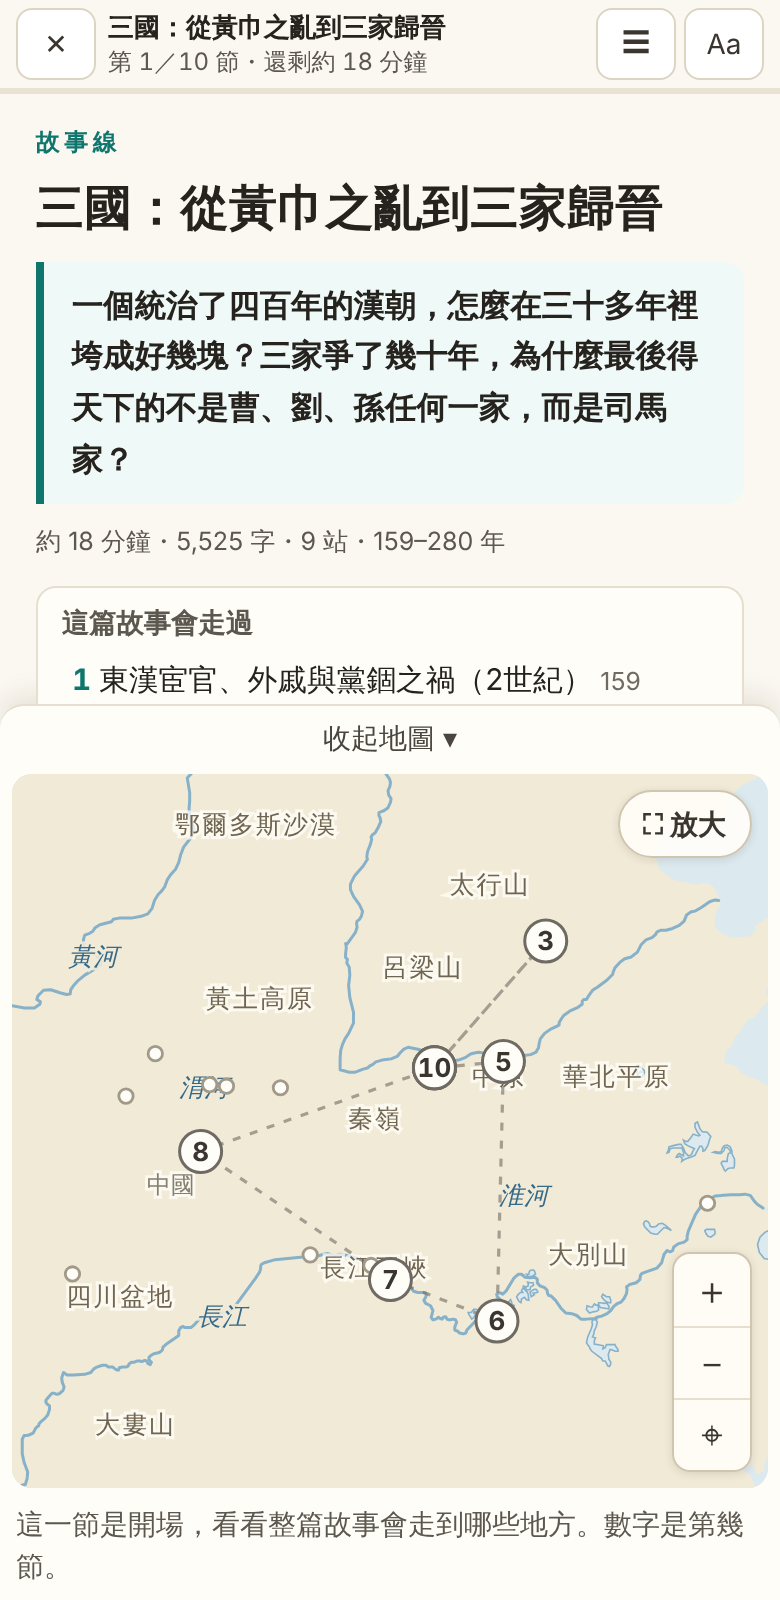
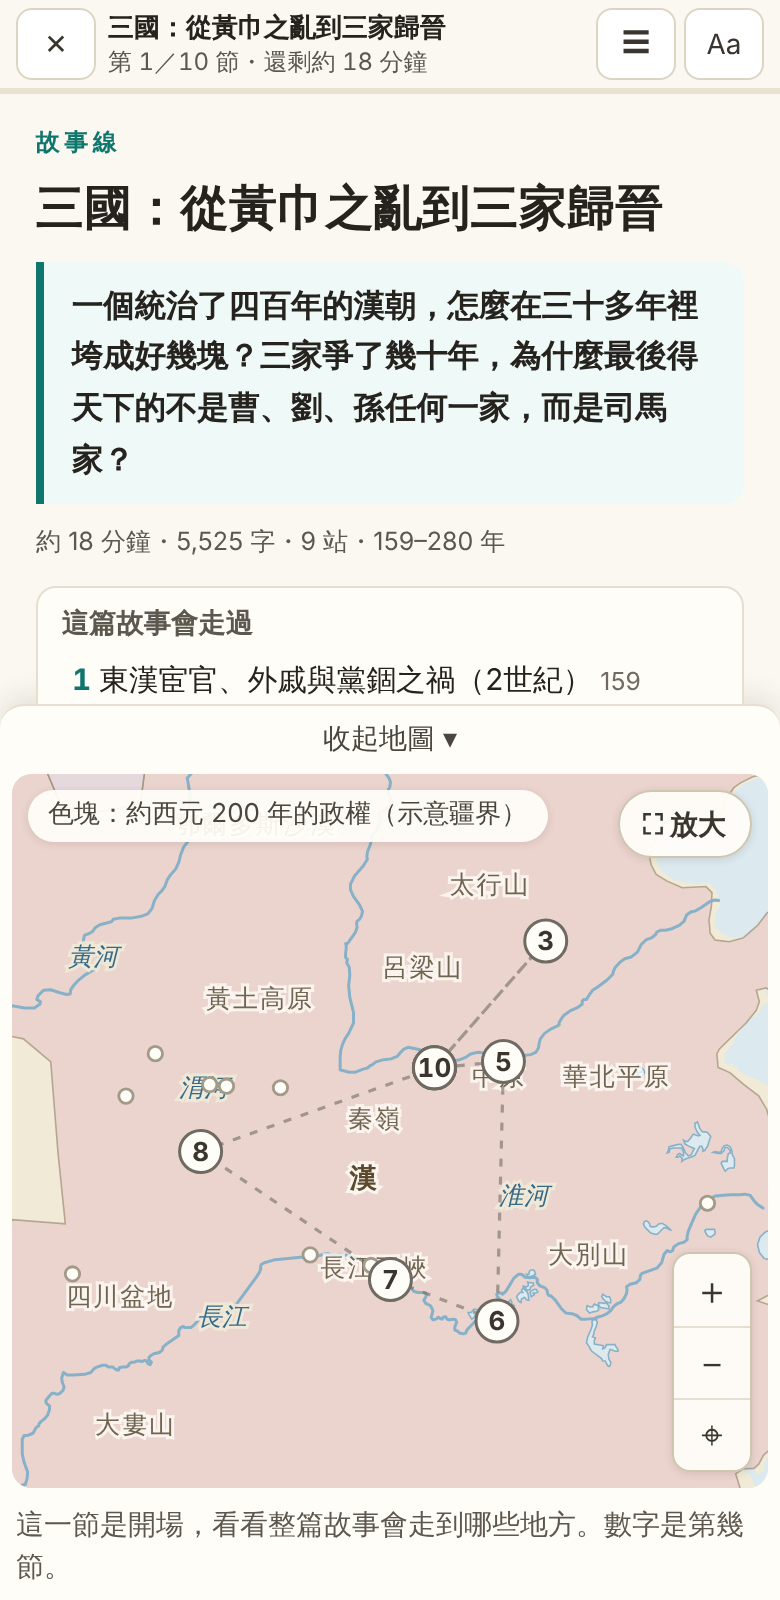
故事地圖：周圍填上當時的政權（歷代疆域，依每節年代）；側欄滾輪需按 Ctrl 才縮放
Claude-Session: https://claude.ai/code/session_01JFJ5rc4L6ADBaQRGoxqdCd

Changed region(s): [[0.0308, 0.4688, 0.7077, 0.5312], [0.4308, 0.7188, 0.4923, 0.75], [0.1846, 0.7188, 0.2462, 0.75]]

diff --git a/src/components/StoryMap.tsx b/src/components/StoryMap.tsx
@@ -21,6 +21,40 @@ const loadMap = (id: string) => {
   return cache.get(id)!;
 };
 
+// 當時的政權：研究模式地圖用的同一份歷代疆域（historical-basemaps，示意疆界）；檔案依年代共用快取
+interface Polity { name: string; d: string; lx: number; ly: number; w: number; fill: string }
+// 暖色與綠色系，不用藍色（會被看成海）
+const PALETTE = ['#ecc9a3', '#d4dca4', '#e6c1c6', '#dccbe3', '#f0dc9c', '#c9dfb8', '#e9cfb6', '#dfd2b0'];
+const hue = (s: string) => { let h = 0; for (const c of s) h = (h * 31 + c.charCodeAt(0)) >>> 0; return PALETTE[h % PALETTE.length]; };
+const eraCache = new Map<string, Promise<Polity[]>>();
+const loadEra = (file: string) => {
+  if (!eraCache.has(file)) {
+    const p = fetch(`${import.meta.env.BASE_URL}data/borders/${file}`).then((r) => { if (!r.ok) throw new Error(String(r.status)); return r.json(); }).then((g: any) => g.features.map((f: any): Polity | null => {
+      const name = f.properties.zh || f.properties.name;
+      if (!name || name === '名稱不詳' || name === '?') return null;
+      const polys = f.geometry.type === 'Polygon' ? [f.geometry.coordinates] : f.geometry.type === 'MultiPolygon' ? f.geometry.coordinates : [];
+      let d = '', best = 0, lx = 0, ly = 0, bw = 0;
+      for (const poly of polys) for (let ring of poly) {
+        if (ring.some((q: number[], i: number) => i > 0 && Math.abs(q[0] - ring[i - 1][0]) > 180)) ring = ring.map(([x, y]: number[]) => [x < -90 ? x + 360 : x, y]);
+        let a = 0, cx = 0, cy = 0, x0 = 1e9, x1 = -1e9;
+        ring.forEach(([x, y]: number[], i: number) => {
+          const px = X(x), py = Y(y);
+          d += `${i ? 'L' : 'M'}${px.toFixed(2)} ${py.toFixed(2)}`;
+          const [nx, ny] = ring[(i + 1) % ring.length], qx = X(nx), qy = Y(ny), cr = px * qy - qx * py;
+          a += cr; cx += (px + qx) * cr; cy += (py + qy) * cr; x0 = Math.min(x0, px); x1 = Math.max(x1, px);
+        });
+        d += 'Z';
+        if (Math.abs(a) > best) { best = Math.abs(a); lx = cx / (3 * a); ly = cy / (3 * a); bw = x1 - x0; }
+      }
+      return d ? { name, d, lx, ly, w: bw, fill: hue(name) } : null;
+    }).filter(Boolean) as Polity[]);
+    p.catch(() => eraCache.delete(file));
+    eraCache.set(file, p);
+  }
+  return eraCache.get(file)!;
+};
+const fmtEra = (y: number) => (y < 0 ? `西元前 ${-y} 年` : `西元 ${y} 年`);
+
 // Web Mercator：世界寬 256 單位
 const X = (lng: number) => ((lng + 180) / 360) * 256;
 const Y = (lat: number) => { const l = Math.max(-80, Math.min(82, lat)) * Math.PI / 180; return (1 - Math.log(Math.tan(l) + 1 / Math.cos(l)) / Math.PI) / 2 * 256; };
@@ -54,6 +88,12 @@ export const StoryMap = memo(function StoryMap({ doc, byId, sec, hot, focus, onF
   const [data, setData] = useState<StoryMapData | null>(null);
   const [failed, setFailed] = useState(false);
   const [world, setWorld] = useState<number[][]>([]);
+  // 這一節年代的政權
+  const era = data?.eras?.[sec] ?? data?.eras?.find(Boolean) ?? null;
+  const [polities, setPolities] = useState<{ file: string; list: Polity[] } | null>(null);
+  useEffect(() => { if (!era) return; let on = true; loadEra(era.file).then((list) => on && setPolities({ file: era.file, list })).catch(() => {}); return () => { on = false; }; }, [era?.file]);
+  const polShown = polities && era && polities.file === era.file ? polities.list : [];
+  const [wheelHint, setWheelHint] = useState(false);
   useEffect(() => { let on = true; loadWorld().then((w) => on && setWorld(w)); return () => { on = false; }; }, []);
   // 放大：整個畫面都是地圖（Esc 或「縮回」關掉）
   const [big, setBig] = useState(false);
@@ -150,9 +190,14 @@ export const StoryMap = memo(function StoryMap({ doc, byId, sec, hot, focus, onF
   useEffect(() => {
     const el = box.current;
     if (!el) return;
-    const wheel = (e: WheelEvent) => { e.preventDefault(); const r = el.getBoundingClientRect(); zoomAt(Math.exp(-e.deltaY * 0.0022), e.clientX - r.left, e.clientY - r.top); };
+    // 滑鼠滾輪：在旁邊的地圖上直接滾是捲動故事（不然讀者滾文章時，游標經過地圖就會不小心縮放）；按住 Ctrl／⌘ 才縮放。放大成全螢幕時直接縮放
+    let hintT = 0;
+    const wheel = (e: WheelEvent) => {
+      if (!big && !e.ctrlKey && !e.metaKey) { setWheelHint(true); clearTimeout(hintT); hintT = window.setTimeout(() => setWheelHint(false), 1200); return; }
+      e.preventDefault(); const r = el.getBoundingClientRect(); zoomAt(Math.exp(-e.deltaY * 0.0022), e.clientX - r.left, e.clientY - r.top);
+    };
     el.addEventListener('wheel', wheel, { passive: false });
-    return () => el.removeEventListener('wheel', wheel);
+    return () => { el.removeEventListener('wheel', wheel); clearTimeout(hintT); };
   });
   /** 拖曳結束時的 click 不算點地點 */
   const tap = (fn: () => void) => () => { if (!dragged.current) fn(); };
@@ -172,10 +217,11 @@ export const StoryMap = memo(function StoryMap({ doc, byId, sec, hot, focus, onF
   const land = useMemo(() => <>
     <path d={worldD} className="sm-land" fillRule="evenodd" />
     {data && <rect x={X(data.box[0])} y={Y(data.box[3])} width={X(data.box[2]) - X(data.box[0])} height={Y(data.box[1]) - Y(data.box[3])} className="sm-sea" />}
-    <path d={landD} className="sm-land" fillRule="evenodd" vectorEffect="non-scaling-stroke" />{water}
-  </>, [worldD, landD, water, data]);
+    <path d={landD} className="sm-land" fillRule="evenodd" vectorEffect="non-scaling-stroke" />
+  </>, [worldD, landD, data]);
   const routeD = useMemo(() => (data?.routes ?? []).map((r) => { let d = ''; for (let i = 0; i < r.c.length; i += 2) d += `${i ? 'L' : 'M'}${X(r.c[i]).toFixed(2)} ${Y(r.c[i + 1]).toFixed(2)}`; return d; }), [data]);
 
+  const polMemo = useMemo(() => polShown.length ? <g className="sm-pol">{polShown.map((p, i) => <path key={i} d={p.d} fill={p.fill} vectorEffect="non-scaling-stroke"><title>{p.name}</title></path>)}</g> : null, [polShown]);
   // 故事順序：每節的代表點依序連起來
   const order = (doc.secPt ?? []).map((p, i) => ({ p, i })).filter((x) => x.p >= 0);
   const hotSet = new Set(hot);
@@ -203,11 +249,20 @@ export const StoryMap = memo(function StoryMap({ doc, byId, sec, hot, focus, onF
   }
   // 地點圓點也要占位，底圖文字才不會壓在點上
   for (const i of mainIds) { const p = places[i]; if (p) taken.push([sx(p.lng) - 9, sy(p.lat) - 9, sx(p.lng) + 9, sy(p.lat) + 9]); }
+  // 政權名稱：在畫面上夠寬（放得下名字）才標
+  const polLabels: JSX.Element[] = [];
+  for (const p of [...polShown].sort((a, b) => b.w - a.w)) {
+    const fs = 13.5, wd = tw(p.name, fs);
+    if (p.w * view.k < wd * 0.9) continue;
+    const x = (p.lx - view.cx) * view.k + w / 2 - wd / 2, y = (p.ly - view.cy) * view.k + h / 2 - fs / 2;
+    if (free(x, y, wd, fs + 2)) polLabels.push(<text key={`p${p.name}${p.lx}`} x={x} y={y + fs} className="sm-pollabel">{p.name}</text>);
+    if (polLabels.length > 18) break;
+  }
   const baseLabels: JSX.Element[] = [];
   if (data) {
     // 河名比國名重要（事件常在河邊）；同一級裡先畫海洋與河
     const pri: Record<string, number> = { o: 0, v: 0.2, r: 0.4, c: 0.6 };
-    const ls = [...data.labels].filter((l) => l[4] <= z + (l[0] === 'c' ? 0.6 : 1.4)).sort((a, b) => a[4] + pri[a[0]] - (b[4] + pri[b[0]]));
+    const ls = [...data.labels].filter((l) => (l[0] !== 'c' || !polShown.length) && l[4] <= z + (l[0] === 'c' ? 0.6 : 1.4)).sort((a, b) => a[4] + pri[a[0]] - (b[4] + pri[b[0]]));
     for (const [t, name, la, ln] of ls) {
       if (baseLabels.length > (z < 2.5 ? 8 : big ? 24 : 16)) break;
       const fs = LABEL_FS[t] ?? 10, wd = tw(name, fs), x = sx(ln) - wd / 2, y = sy(la) - fs / 2;
@@ -225,8 +280,11 @@ export const StoryMap = memo(function StoryMap({ doc, byId, sec, hot, focus, onF
           <svg width={w} height={h} viewBox={`0 0 ${w} ${h}`} aria-hidden onPointerDown={onDown} onPointerMove={onMove} onPointerUp={onUp} onPointerCancel={onUp}>
             <g transform={`translate(${w / 2 - view.cx * view.k} ${h / 2 - view.cy * view.k}) scale(${view.k})`}>
               {land}
+              {polMemo}
+              {water}
               {routeD.map((d, i) => <path key={i} d={d} className={`sm-route ${data!.routes[i].secs.includes(sec) ? 'on' : ''}`} vectorEffect="non-scaling-stroke"><title>{data!.routes[i].name}</title></path>)}
             </g>
+            {polLabels}
             {baseLabels}
             {order.length > 1 && <polyline className="sm-order" points={order.map(({ p }) => `${sx(places[p].lng)},${sy(places[p].lat)}`).join(' ')} />}
             {places.map((p, i) => {
@@ -252,6 +310,8 @@ export const StoryMap = memo(function StoryMap({ doc, byId, sec, hot, focus, onF
             {pinLabels}
           </svg>
         )}
+        {wheelHint && <p className="sm-hint">按住 Ctrl（Mac 按 ⌘）再滾輪縮放地圖，或按右下角＋－</p>}
+        {era && polShown.length > 0 && <p className="sm-era">色塊：約{fmtEra(era.y)}的政權（示意疆界）</p>}
         {!data && !failed && <p className="sm-msg">地圖載入中…</p>}
         {failed && <p className="sm-msg">地圖載入失敗。<button className="link" onClick={() => { setFailed(false); loadMap(doc.id).then(setData).catch(() => setFailed(true)); }}>重試</button></p>}
         <div className="sm-tools">

diff --git a/scripts/lib/storyMap.ts b/scripts/lib/storyMap.ts
@@ -215,7 +215,17 @@ export function buildStoryMap(s: RawStory, places: StoryPlace[], cards: RawCard[
       if (!x.secs.includes(si)) x.secs.push(si);
     }
   });
-  return { box: box.map((v) => Math.round(v * 100) / 100), land, rivers, lakes, labels, routes: rs };
+  // 當時的政權（historical-basemaps 示意疆界，研究模式地圖用的同一份 public/data/borders/）：每一節取最接近那節年代的快照
+  const snaps: { year: number; file: string }[] = JSON.parse(fs.readFileSync(path.join(ROOT, 'data/borders/index.json'), 'utf8')).snapshots;
+  const secYear = s.sections.map((sec) => { const ys = sec.cards.map((c) => byId.get(c)?.time?.start).filter((y: any) => typeof y === 'number'); return ys.length ? Math.min(...ys) : null; });
+  const firstY = secYear.find((y) => y != null) ?? null;
+  const eras = secYear.map((y0) => {
+    const y = y0 ?? firstY;
+    if (y == null) return null;
+    const best = snaps.reduce((a, b) => (Math.abs(b.year - y) < Math.abs(a.year - y) ? b : a));
+    return { y: best.year, file: best.file };
+  });
+  return { box: box.map((v) => Math.round(v * 100) / 100), land, rivers, lakes, labels, routes: rs, eras };
 }
 
 /** 全世界粗略陸地（1:110m），故事範圍外的背景；所有故事共用 public/data/stories/world-110m.json */

diff --git a/src/components/story-map.css b/src/components/story-map.css
@@ -114,3 +114,8 @@
 @media print { .sr-mapbtn, .sr-sheet, .sr-side-map, .sm.full { display: none !important; } }
 @media (prefers-reduced-motion: reduce) { .sm-pulse { animation: none; opacity: .7; } }
 .sr-strip-left { font-size: 13px; font-weight: 400; color: #6f6a62; }
+/* 當時的政權（歷代疆域，示意） */
+.sm-pol path { fill-opacity: .55; stroke: #9c8f74; stroke-width: .8px; stroke-opacity: .7; }
+.sm-pollabel { font-size: 13.5px; font-weight: 600; fill: #5b4a2e; letter-spacing: .06em; paint-order: stroke; stroke: rgba(255, 253, 248, .8); stroke-width: 3px; pointer-events: none; }
+.sm-era { position: absolute; left: 8px; top: 8px; margin: 0; font-size: 13px; padding: 3px 10px; border-radius: 13px; background: rgba(255, 253, 248, .93); color: #4a463f; box-shadow: 0 1px 4px rgba(40, 30, 10, .12); pointer-events: none; }
+.sm-hint { position: absolute; left: 50%; bottom: 14px; transform: translateX(-50%); margin: 0; font-size: 14px; padding: 6px 14px; border-radius: 16px; background: rgba(38, 35, 31, .82); color: #fff; pointer-events: none; white-space: nowrap; }

diff --git a/src/types.ts b/src/types.ts
@@ -62,7 +62,7 @@ export interface StoryDoc extends StoryRead {
   places?: StoryPlace[]; secPt?: number[]; hasMap?: boolean;
 }
 export interface StoryPlace { n: string; m: string; lat: number; lng: number; ap: boolean; roles: { card: string; role: string }[]; secs: number[]; k: string[] }
-export interface StoryMapData { box: [number, number, number, number]; land: number[][]; rivers?: number[][]; lakes?: number[][]; labels: [string, string, number, number, number][]; routes: { id: string; name: string; secs: number[]; c: number[] }[] }
+export interface StoryMapData { box: [number, number, number, number]; land: number[][]; rivers?: number[][]; lakes?: number[][]; eras?: ({ y: number; file: string } | null)[]; labels: [string, string, number, number, number][]; routes: { id: string; name: string; secs: number[]; c: number[] }[] }
 
 // 第 6 期：學習模式
 export type LearnTrack = '臺灣' | '東亞' | '世界';

diff --git a/docs/stories.md b/docs/stories.md
@@ -106,7 +106,7 @@ npm run validate                                  # 全站檢查（含故事）
  │              │ 第4節：標題   │        │ 地圖（下方拉出，│    或內文地名才出現
  │              │ ①②③④⑤ 考考自己│        │  約 56% 高）   │
  └──────────────┴──────────────┘        └──────────────┘
- 任何地方都能按「⛶ 放大」變全螢幕（Esc 或「✕ 縮回」）；可拖曳、滾輪／兩指縮放、＋－，⌖ 回到這一節
+ 任何地方都能按「⛶ 放大」變全螢幕（Esc 或「✕ 縮回」）；可拖曳、兩指縮放、＋－（側欄滾輪要按 Ctrl／⌘，免得捲文章時誤縮；全螢幕時滾輪直接縮放），⌖ 回到整篇範圍
 ```
 
 - **不寫新資料**：地點、今天的地名、「位置為示意」、角色說明都來自各站卡片的 `place.locations`；路線來自卡片的 `routes`。卡片地點改了，重跑 `npm run build:index` 地圖就跟著改。
@@ -114,6 +114,7 @@ npm run validate                                  # 全站檢查（含故事）
 - ZL 2026-11-14：地圖畫面不要跟著小節移動，只有點變色；移動縮放由讀者自己來（⌖ 回到整篇範圍）。點內文地名時，若那個點在畫面外才平移帶進來。文字欄在左邊區域置中。
 - 地圖上：● 這一節的地點（空心＝位置為示意）；橘色＝正在讀的段落提到的地點，或讀者點的地點；①②③ 其他節（點了跳過去）；虛線＝**故事順序，不是行進路線**；棕線＝卡片上的路線；灰字＝今天的國名。
 - 內文地名：每段第一次出現的地名（各站卡片的 `name_ancient`，含括號裡的別名）會有點狀底線，點了地圖移過去並說明今天在哪裡。國名、洲名（中國、美國、希臘…）不標，因為地圖上只能指到一個示意點。
+- **周圍填上當時的政權**（ZL 2026-11-14：周圍不要空白）：每節取最早一站的年份，找最接近的「歷代疆域」快照（`public/data/borders/`，historical-basemaps，GPL-3.0），把當時的政權畫成暖色色塊＋中文名；左上角標「色塊：約西元 N 年的政權（示意疆界）」。故事範圍外的陸地用 Natural Earth 110m 世界陸地補滿，不再是灰色。有政權色塊時不顯示今天的國名。
 - 程式：`scripts/lib/storyMap.ts`（地點清單＋裁切陸地／河流／湖泊／地名）→ 故事 json 多 `places`、`secPt`、`hasMap`；`public/data/stories/<id>.map.json` 另存。畫面 `src/components/StoryMap.tsx`＋`story-map.css`（React.lazy，文字先出來，空閒時才下載地圖；手機按了才下載）。河流湖泊 `npx tsx scripts/fetch-rivers.ts` 產生 `data/ne/rivers-lakes-50m.json`。
 - 測試：`node scripts/qa/story-map.cjs <網址> [截圖夾]`。
 - **同一座城不同時代的名字**（雒陽／洛陽、建業／建康、昇龍／河內…）：寫在 `data/labels/same-place.yaml` 的 `groups`，地圖合成一個點、名字並列，內文哪個寫法都點得到。同一座城裡真的不同的地方（雅典衛城 vs 普尼克斯山）放 `different`，地圖分開標。不能全自動合併，因為「很近」分不出這兩種。新增卡片後跑 `story-map.cjs`，會列出還沒判斷的。
